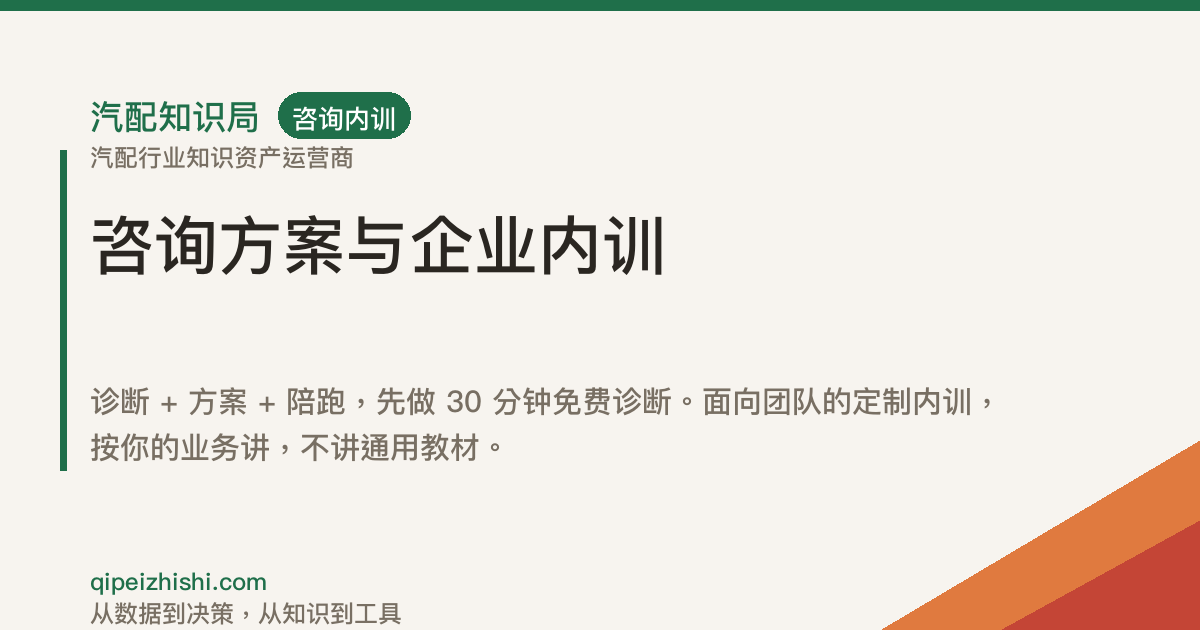
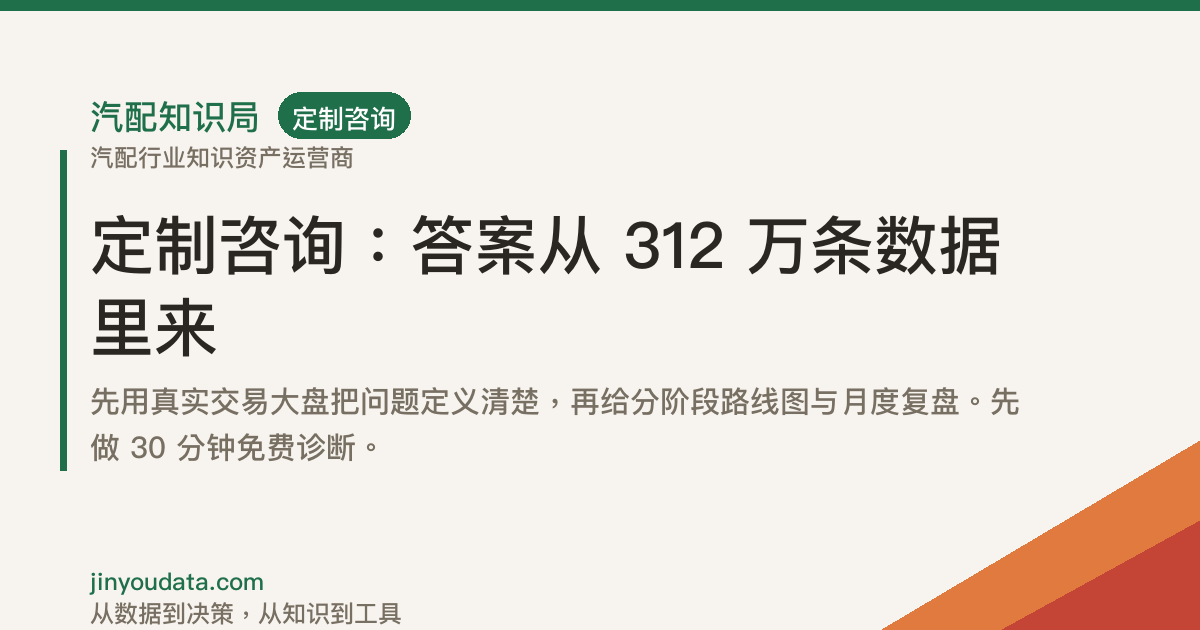
砍掉企业内训：/consulting 收敛为基于 312 万数据的定制咨询，删除 ¥20,000/场 产品线与驻场/讲课口径；档位第四档改名定制合作；旧地址 301 到 /consulting；全站清除内训、课程、作业字样（AI 标注语境保留）

diff --git a/app/consulting/page.tsx b/app/consulting/page.tsx
@@ -3,33 +3,50 @@ import type { Metadata } from "next";
 import { buildMetadata, KEYWORDS } from "@/lib/seo";
 import { JsonLd, breadcrumbSchema } from "@/components/site/json-ld";
 import Link from "next/link";
-import { ArrowRight, Search, Route, Repeat, Presentation } from "lucide-react";
+import { ArrowRight, Search, Route, Repeat } from "lucide-react";
 
 import { PageHero } from "@/components/site/page-hero";
 import { SectionHeading } from "@/components/site/section-heading";
 import { Button } from "@/components/ui/button";
 import { Card, CardContent } from "@/components/ui/card";
 import { Badge } from "@/components/ui/badge";
+import { ProductIcon } from "@/components/site/icon";
 import { getProducts } from "@/lib/data";
 
 export const metadata: Metadata = buildMetadata({
-  title: "咨询与内训",
-  description: "诊断 + 方案 + 陪跑的咨询方案（¥30,000 起 / 项目），以及面向团队的定制内训（¥20,000 起 / 场）。先做 30 分钟免费诊断。",
+  title: "定制咨询",
+  description:
+    "基于 312 万条真实交易大盘的定制诊断与咨询（¥30,000 起 / 项目）：先把问题定义清楚，再给分阶段路线图与月度复盘。先做 30 分钟免费诊断。",
   path: "/consulting",
   keywords: [KEYWORDS.data, KEYWORDS.knowledge, KEYWORDS.sop, KEYWORDS.compliance],
 });
 
 const STEPS = [
-  { icon: Search, name: "诊断", desc: "先把问题定义清楚。看你的真实数据、流程和人员，找出真正卡住的地方，而不是你以为的地方。", time: "1-2 周" },
-  { icon: Route, name: "方案", desc: "给分阶段路线图：先做什么、后做什么、每一步要什么资源、怎么验收。只写能落地的动作。", time: "2-3 周" },
-  { icon: Repeat, name: "陪跑", desc: "月度复盘，看数据不看汇报。跑偏了当场纠，跑不动了换打法。", time: "3-6 个月" },
+  {
+    icon: Search,
+    name: "诊断",
+    desc: "先用真实数据把问题定义清楚：把你在做的品类、毛利结构、价格带放进大盘里对一遍，找出真正卡住的地方，而不是你以为的地方。",
+    time: "1-2 周",
+  },
+  {
+    icon: Route,
+    name: "方案",
+    desc: "给分阶段路线图：先做什么、后做什么、每一步要什么资源、怎么验收。只写能落地的动作。",
+    time: "2-3 周",
+  },
+  {
+    icon: Repeat,
+    name: "陪跑",
+    desc: "月度复盘，看数据不看汇报。跑偏了当场纠，跑不动了换打法。",
+    time: "3-6 个月",
+  },
 ];
 
 const TOPICS = [
   "采购与供应链梳理：集中采购目录、供应商分级、库存周转",
   "选品与定价体系：五维评分、毛利核算、价格带定位",
   "多平台运营：店铺矩阵、类目选择、合规与风险",
-  "团队能力建设：岗位 SOP、新人培养路径、考核标准",
+  "数据驱动决策：用 312 万条交易大盘做品类机会扫描与竞品对标",
 ];
 
 export default async function ConsultingPage() {
@@ -42,13 +59,13 @@ export default async function ConsultingPage() {
       <JsonLd
         data={breadcrumbSchema([
           { name: "首页", url: "/" },
-          { name: "咨询与内训", url: "/consulting" },
+          { name: "定制咨询", url: "/consulting" },
         ])}
       />
 
       <PageHero
         tag="CONSULTING"
-        title="咨询与内训：只给能落地的动作，不给漂亮 PPT"
+        title="定制咨询：答案从 312 万条数据里来，不给漂亮 PPT"
         desc="先做一次免费 30 分钟诊断。如果我们帮不上忙，会直接告诉你，不接单。"
       >
         <Button asChild variant="destructive">
@@ -96,14 +113,14 @@ export default async function ConsultingPage() {
 
       <section className="section-pad">
         <div className="container-site">
-          <SectionHeading tag="产品与收费" title="两种交付形态，收费方式不同" />
-          <div className="grid gap-4 md:grid-cols-2">
+          <SectionHeading tag="产品与收费" title="按项目定制，一次报价" />
+          <div className="mx-auto grid max-w-3xl gap-4">
             {items.map((p) => (
               <Card key={p.id} className="card-hover h-full">
                 <CardContent className="flex h-full flex-col gap-3 p-5">
                   <div className="flex items-center gap-2">
                     <span className="flex h-10 w-10 items-center justify-center rounded-xl bg-secondary text-primary">
-                      <Presentation className="h-5 w-5" strokeWidth={1.75} />
+                      <ProductIcon name={p.icon} />
                     </span>
                     <h3 className="text-base font-bold">{p.name}</h3>
                   </div>

diff --git a/lib/data.ts b/lib/data.ts
@@ -59,7 +59,7 @@ export const FALLBACK_PRODUCTS: Product[] = [
     id: 6, slug: "case-library", name: "案例库", icon: "folder-open", layer: "trust", category: "knowledge", tier: "free",
     positioning: "真实脱敏案例，每个都附可复用的动作清单",
     problem: "想知道别人是怎么解决同类问题的",
-    audience: "想抄作业的务实派",
+    audience: "想直接看别人怎么解决的务实派",
     deliverable: "图文案例 · 知识库专栏",
     price: "免费 · 申请解锁",
     cta_type: "claim", third_party_url: null, third_party_platform: null, planet_url: null,
@@ -120,7 +120,7 @@ export const FALLBACK_PRODUCTS: Product[] = [
     price: "¥999 – ¥1,999 / 年",
     cta_type: "buy", third_party_url: null, third_party_platform: "企业微信", planet_url: null,
   },
-  // ---------- 阶梯四：咨询 / 内训 / 合作 1万+（解决你自己的问题） ----------
+  // ---------- 阶梯四：咨询 / 合作 1万+（解决你自己的问题） ----------
   {
     id: 10, slug: "consulting", name: "咨询方案", icon: "compass", layer: "delivery", category: "consulting", tier: "enterprise",
     positioning: "诊断 + 方案 + 陪跑，只给可落地的动作",
@@ -128,15 +128,6 @@ export const FALLBACK_PRODUCTS: Product[] = [
     audience: "修理厂连锁、经销商集团、成长期卖家",
     deliverable: "诊断报告 + 分阶段路线图 + 月度复盘陪跑",
     price: "¥30,000 起 / 项目",
-    cta_type: "consult", third_party_url: null, third_party_platform: null, planet_url: null,
-  },
-  {
-    id: 11, slug: "corporate-training", name: "企业内训", icon: "presentation", layer: "delivery", category: "consulting", tier: "enterprise",
-    positioning: "面向团队的定制内训，训后附考核与落地清单",
-    problem: "团队依赖老师傅，人走经验走",
-    audience: "连锁修理厂、经销商集团、平台类目团队",
-    deliverable: "线上 / 驻场 · 1-3 天 · 训后考核",
-    price: "¥20,000 起 / 场",
     cta_type: "consult", third_party_url: null, third_party_platform: null, planet_url: null,
   },
   {
@@ -229,6 +220,7 @@ export const FALLBACK_PARTNERS: Partner[] = [
 const DELIVERY_REPLACERS: Array<[RegExp, string]> = [
   [/知识星球课程/g, "内部资料"],
   [/培训课程|体系课|录播课/g, "数据订阅与会员版"],
+  [/企业内训|定制内训/g, "定制咨询"],
   [/课程/g, "数据工具"],
   [/知识星球/g, "企业微信"],
   [/小鹅通/g, "企业微信"],
@@ -267,7 +259,7 @@ function sanitizeRow<T extends Record<string, unknown>>(row: T): T {
 }
 
 /** 已下线的产品 slug：即使数据库里还有旧记录，也不允许再出现在站点上 */
-const RETIRED_PRODUCT_SLUGS = new Set(["courses", "annual-pass"]);
+const RETIRED_PRODUCT_SLUGS = new Set(["courses", "annual-pass", "corporate-training"]);
 
 export async function getProducts(): Promise<Product[]> {
   const rows = (await fetchTable<Product>("products")) ?? FALLBACK_PRODUCTS;

diff --git a/lib/types.ts b/lib/types.ts
@@ -5,7 +5,7 @@
 export type Layer = "traffic" | "trust" | "conversion" | "delivery";
 export type CtaType = "claim" | "buy" | "consult";
 
-/** 价格阶梯：免费 → 工具包(99-499) → 数据订阅与会员(999-1999) → 咨询/内训(1万+) */
+/** 价格阶梯：免费 → 工具包(99-499) → 数据订阅与会员(999-1999) → 咨询/合作(1万+) */
 export type Tier = "free" | "toolkit" | "subscription" | "enterprise";
 
 export const TIERS: Record<Tier, { name: string; range: string; goal: string; note: string }> = {
@@ -28,10 +28,10 @@ export const TIERS: Record<Tier, { name: string; range: string; goal: string; no
     note: "开通金游™数据中台专属账号，312 万条底层数据无限次查询，支持按 OE 号、品牌、毛利区间自由检索。",
   },
   enterprise: {
-    name: "咨询 / 内训",
+    name: "定制合作",
     range: "¥10,000 起",
     goal: "解决你自己的问题",
-    note: "诊断+方案+陪跑、企业内训、SaaS 与 AI 数据合作——按你的业务定制。",
+    note: "基于 312 万条交易大盘的诊断 + 方案 + 陪跑，以及 SaaS 与 AI 数据合作——按你的业务定制。",
   },
 };
 
@@ -132,7 +132,7 @@ export const LAYER_LABELS: Record<Layer, { name: string; desc: string; goal: str
   traffic: { name: "免费入门", desc: "内容IP · 报告摘要 · SOP清单", goal: "先看，能直接用" },
   trust: { name: "上手试用", desc: "基础知识库 · 模板 · 案例", goal: "先用起来再说" },
   conversion: { name: "数据订阅", desc: "数据中台账号 · 完整报告 · 查询权限", goal: "按需付费，持续查数" },
-  delivery: { name: "长期合作", desc: "咨询方案 · 企业内训 · SaaS · AI数据", goal: "定制方案一起做事" },
+  delivery: { name: "长期合作", desc: "定制咨询 · SaaS · AI数据", goal: "定制方案一起做事" },
 };
 
 export const LAYER_ORDER: Layer[] = ["traffic", "trust", "conversion", "delivery"];

diff --git a/middleware.ts b/middleware.ts
@@ -8,6 +8,7 @@ import type { NextRequest } from "next/server";
  * - /courses                  培训课程体系已砍掉，改为「数据订阅与会员版」
  * - /products/courses         同上（原课程产品详情）
  * - /products/annual-pass     年度知识通行证已下线（原权益含课程与社群答疑）
+ * - /products/corporate-training  企业内训已砍掉，改为按项目的「定制咨询」
  *
  * 为什么不用 next.config 的 redirects：
  * Next.js 的 redirects 只支持 307/308（permanent: true → 308），无法输出 301；
@@ -20,6 +21,7 @@ const RETIRED: Record<string, string> = {
   "/courses": "/products/data-subscription",
   "/products/courses": "/products/data-subscription",
   "/products/annual-pass": "/products/data-subscription",
+  "/products/corporate-training": "/consulting",
 };
 
 export const config = {
@@ -32,6 +34,7 @@ export const config = {
     "/courses/:path*",
     "/products/courses",
     "/products/annual-pass",
+    "/products/corporate-training",
   ],
 };
 

diff --git a/app/api/ai/route.ts b/app/api/ai/route.ts
@@ -38,8 +38,8 @@ function fallbackReply(lastUserMessage: string): string {
   if (/合作|AI|标注|语料|评测|SaaS/.test(t)) {
     return "AI 数据合作（语料授权、标注规则、评测标准共建）和 SaaS 合作在 /partners，签 DPA 后启动。可以先在 /contact 提交意向。";
   }
-  if (/咨询|诊断|内训|方案/.test(t)) {
-    return "咨询与内训先做 30 分钟免费诊断：扫码添加主理人企微，把你的业务规模、卡点和目标说清楚，我们判断能不能帮上。";
+  if (/咨询|诊断|方案|定制/.test(t)) {
+    return "定制咨询先做 30 分钟免费诊断：扫码添加主理人企微，把你的业务规模、卡点和目标说清楚，我们基于 312 万条交易大盘判断能不能帮上。";
   }
   return "这个问题我记下了。更准确的答案建议联系主理人（/wechat）找真人确认，也可以在 /contact 留下你的问题，我们按情况回复。";
 }

diff --git a/components/site/json-ld.tsx b/components/site/json-ld.tsx
@@ -34,7 +34,7 @@ export function organizationSchema() {
       addressCountry: "CN",
     },
     description:
-      "汽配行业知识资产运营商：把隐性知识变成可交易资产。提供汽配知识库、SOP、行业报告、数据订阅与会员、数据中台账号、咨询内训与 AI 数据标注合作。",
+      "汽配行业知识资产运营商：把隐性知识变成可交易资产。提供汽配知识库、SOP、行业报告、数据订阅与会员、数据中台账号、定制咨询与 AI 数据标注合作。",
     areaServed: { "@type": "Country", name: "CN" },
     knowsAbout: [
       "汽配数据",
@@ -106,7 +106,7 @@ export function productSchema(p: Product) {
   };
 }
 
-/** Course schema（保留能力，当前站点已无课程产品） */
+/** Course schema（结构化数据能力保留，站点当前不输出） */
 export function courseSchema(c: {
   name: string;
   description: string;

diff --git a/app/products/page.tsx b/app/products/page.tsx
@@ -15,7 +15,7 @@ export const runtime = "edge";
 
 export const metadata: Metadata = buildMetadata({
   title: "产品中心",
-  description: "四档产品阶梯：免费内容 → 99-499 工具包 → 999-1999 数据订阅与会员 → 1万+ 咨询内训。每张卡片都写清：适合谁、解决什么问题、交付什么、怎么收费、下一步动作。",
+  description: "四档产品阶梯：免费内容 → 99-499 工具包 → 999-1999 数据订阅与会员 → 1万+ 定制合作。每张卡片都写清：适合谁、解决什么问题、交付什么、怎么收费、下一步动作。",
   path: "/products",
   keywords: [KEYWORDS.data, KEYWORDS.oe, KEYWORDS.vin, KEYWORDS.knowledge, KEYWORDS.sop],
 });

diff --git a/app/about/page.tsx b/app/about/page.tsx
@@ -82,7 +82,7 @@ export default function AboutPage() {
                 做四件事：把一线经验整理成<strong>知识库与 SOP</strong>；把真实交易数据处理成
                 <strong>报告与数据产品</strong>；把 312 万条底层数据做成
                 <strong>可查询的数据中台</strong>；对具体问题给
-                <strong>咨询与内训</strong>，对行业伙伴开放
+                <strong>定制咨询</strong>，对行业伙伴开放
                 <strong>SaaS 与 AI 数据合作</strong>。
               </p>
               <p className="mt-3 text-sm leading-relaxed text-foreground/85">

diff --git a/app/layout.tsx b/app/layout.tsx
@@ -18,7 +18,7 @@ export const metadata: Metadata = {
     default: `${SITE_NAME} | ${SITE_SLOGAN}`,
     template: `%s | ${SITE_NAME}`,
   },
-  description: `${SITE_SLOGAN}。${SITE_SUB}。知识库、SOP、行业报告、数据订阅与会员、数据中台账号、咨询内训、AI 数据合作。`,
+  description: `${SITE_SLOGAN}。${SITE_SUB}。知识库、SOP、行业报告、数据订阅与会员、数据中台账号、定制咨询、AI 数据合作。`,
   keywords: [...CORE_KEYWORDS],
   // favicon 放在 public/（app/favicon.ico 会被 Next 当成动态路由，Cloudflare 边缘构建不支持）
   icons: {

diff --git a/components/site/product-ladder.tsx b/components/site/product-ladder.tsx
@@ -29,7 +29,7 @@ type GroupBy = "tier" | "layer";
 
 /**
  * 产品阶梯 / 产品分层
- * - groupBy="tier" ：按价格档分四档（免费 → 工具包 → 数据订阅与会员 → 咨询内训）
+ * - groupBy="tier" ：按价格档分四档（免费 → 工具包 → 数据订阅与会员 → 定制合作）
  * - groupBy="layer"：按信任层级分四层（流量层 → 信任层 → 转化层 → 交付层）
  * 两种分组都回答：这一档解决什么、有什么产品、下一步动作。
  */

diff --git a/components/site/footer.tsx b/components/site/footer.tsx
@@ -11,7 +11,7 @@ const COLS: { title: string; links: { href: string; label: string }[] }[] = [
       { href: "/knowledge", label: "知识库与SOP" },
       { href: "/products/data-subscription", label: "数据订阅与会员版" },
       { href: "/reports", label: "报告与数据产品" },
-      { href: "/consulting", label: "咨询与内训" },
+      { href: "/consulting", label: "定制咨询" },
       { href: "/partners", label: "SaaS与AI合作" },
     ],
   },

diff --git a/scripts/gen-og.py b/scripts/gen-og.py
@@ -126,7 +126,7 @@ PAGES = [
     ("knowledge", "汽配知识库与 SOP", "12,000+ 条目的名词库、适配库、政策库、避坑库，加 6 套可打印照做的 SOP 清单与表格模板。", "知识库"),
     ("data-subscription", "数据订阅与会员版：312 万条数据，无限次查", "金游™数据中台专属账号，按 OE 号、品牌、毛利区间自由检索。只给工具，不讲废话。", "数据订阅"),
     ("reports", "行业报告与数据订阅会员", "品类数据、价格带、竞争格局、趋势预判；数据中台账号按 OE 号、品牌、毛利区间自由检索 312 万条底层数据。", "报告数据"),
-    ("consulting", "咨询方案与企业内训", "诊断 + 方案 + 陪跑，先做 30 分钟免费诊断。面向团队的定制内训，按你的业务讲，不讲通用教材。", "咨询内训"),
+    ("consulting", "定制咨询：答案从 312 万条数据里来", "先用真实交易大盘把问题定义清楚，再给分阶段路线图与月度复盘。先做 30 分钟免费诊断。", "定制咨询"),
     ("partners", "SaaS 与 AI 数据合作", "面向 SaaS 的行业 Know-how 与种子用户合作；面向 AI 公司的汽配语料授权、标注规则与评测标准共建。", "生态合作"),
     ("content", "内容 IP：全网同名「汽配知识局」", "短视频拆解选品与避坑，深度图文讲数据与方法，月度直播讲透一个流程。", "内容IP"),
     ("about", "关于我们：不卖货，只做知识资产", "汽配行业知识资产运营商。不卖货、不代运营、不碰交易。把隐性知识变成可交易资产。", "关于"),
